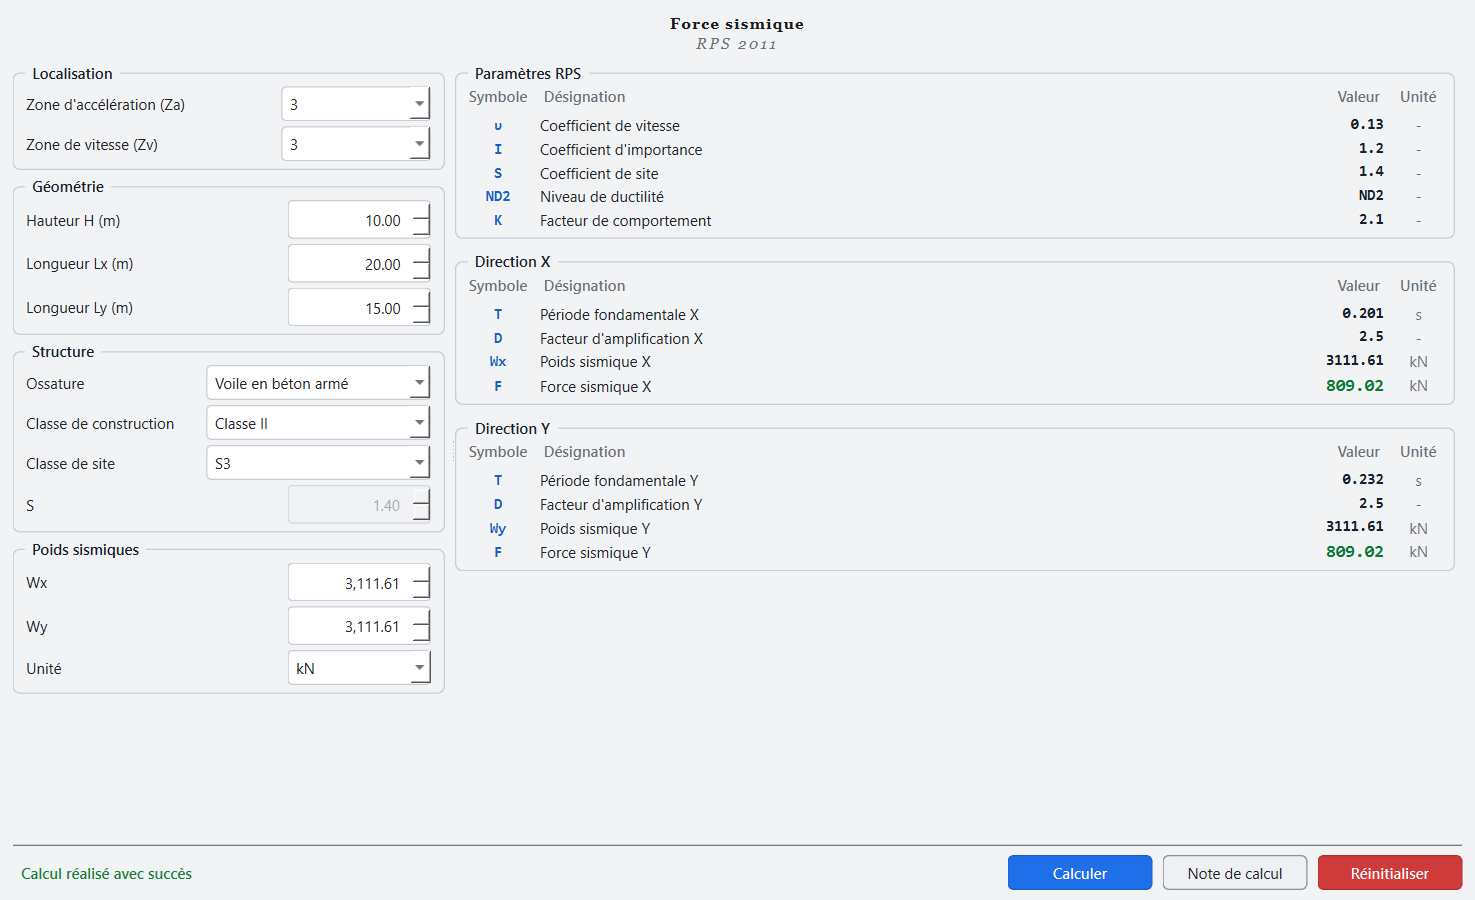
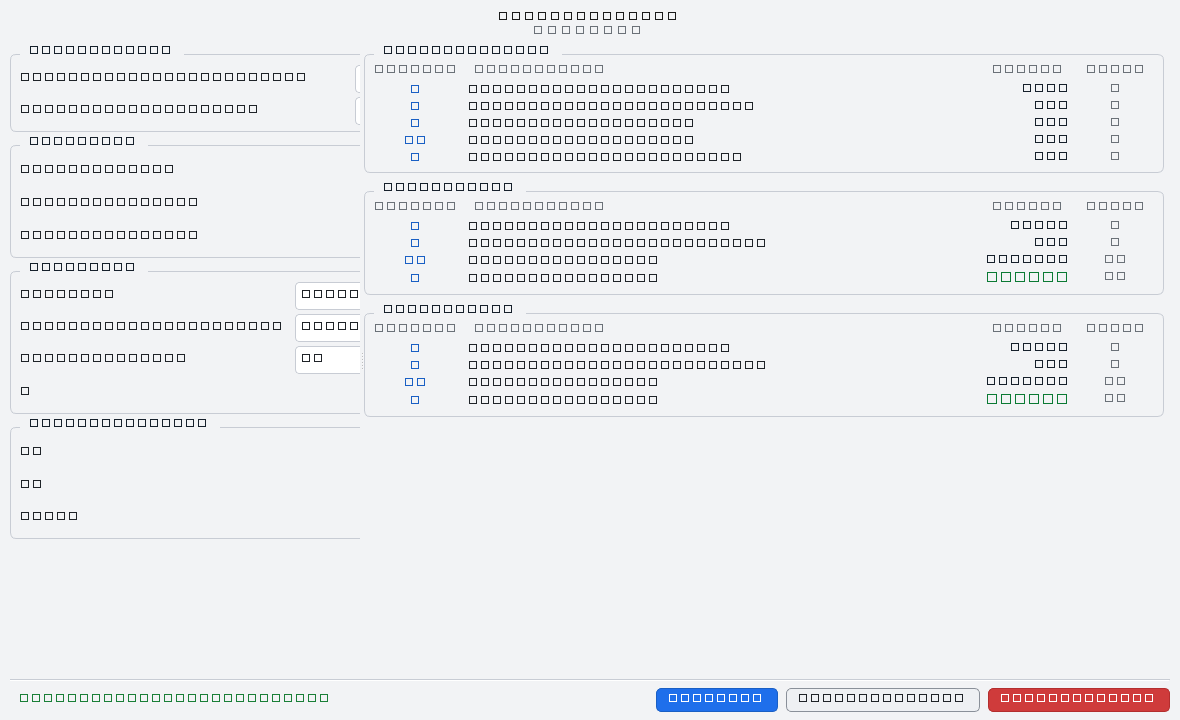
Symbole du niveau de ductilité : ND et non ND2
Le lexique du RPS 2011 définit « ND : Niveau de ductilité » ; ND1, ND2 et
ND3 sont les trois niveaux du tableau 3.2, pas le symbole de la grandeur.
`rps/ductilite.py` est le seul module qui mettait le niveau dans `symbole` :
tous les autres portent le symbole de la grandeur (D, F, K, I, T, S).

- `symbole` passe de `nd.value` à `"ND"` : la note et le tableau de l'interface
  affichent `ND` en colonne « Symbole », et la valeur conserve ND1 / ND2 / ND3
- les 34 tests passent, la formule `ND = f(classe, υ)` reste cohérente
- `docs/apercu.png` régénéré (la capture montrait ND2)

diff --git a/rps/ductilite.py b/rps/ductilite.py
@@ -44,7 +44,7 @@ def niveau_ductilite(
 
     return Params(
         nom="Niveau de ductilité",
-        symbole=nd.value,
+        symbole="ND",
         valeur=nd,
         unite="-",
         description="Niveau de ductilité en fonction de la classe de construction et du coefficient de vitesse",
